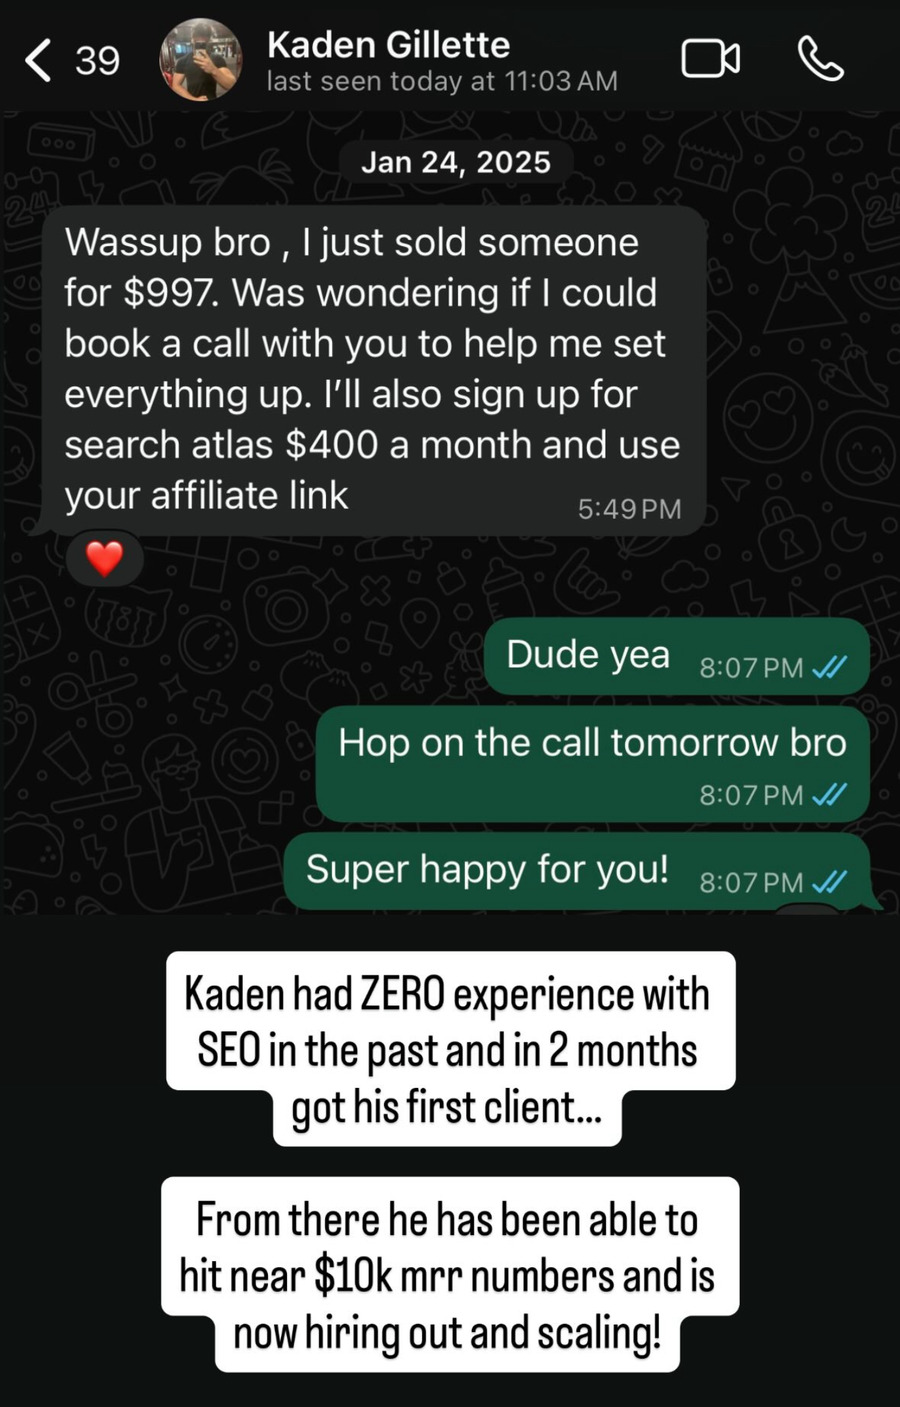
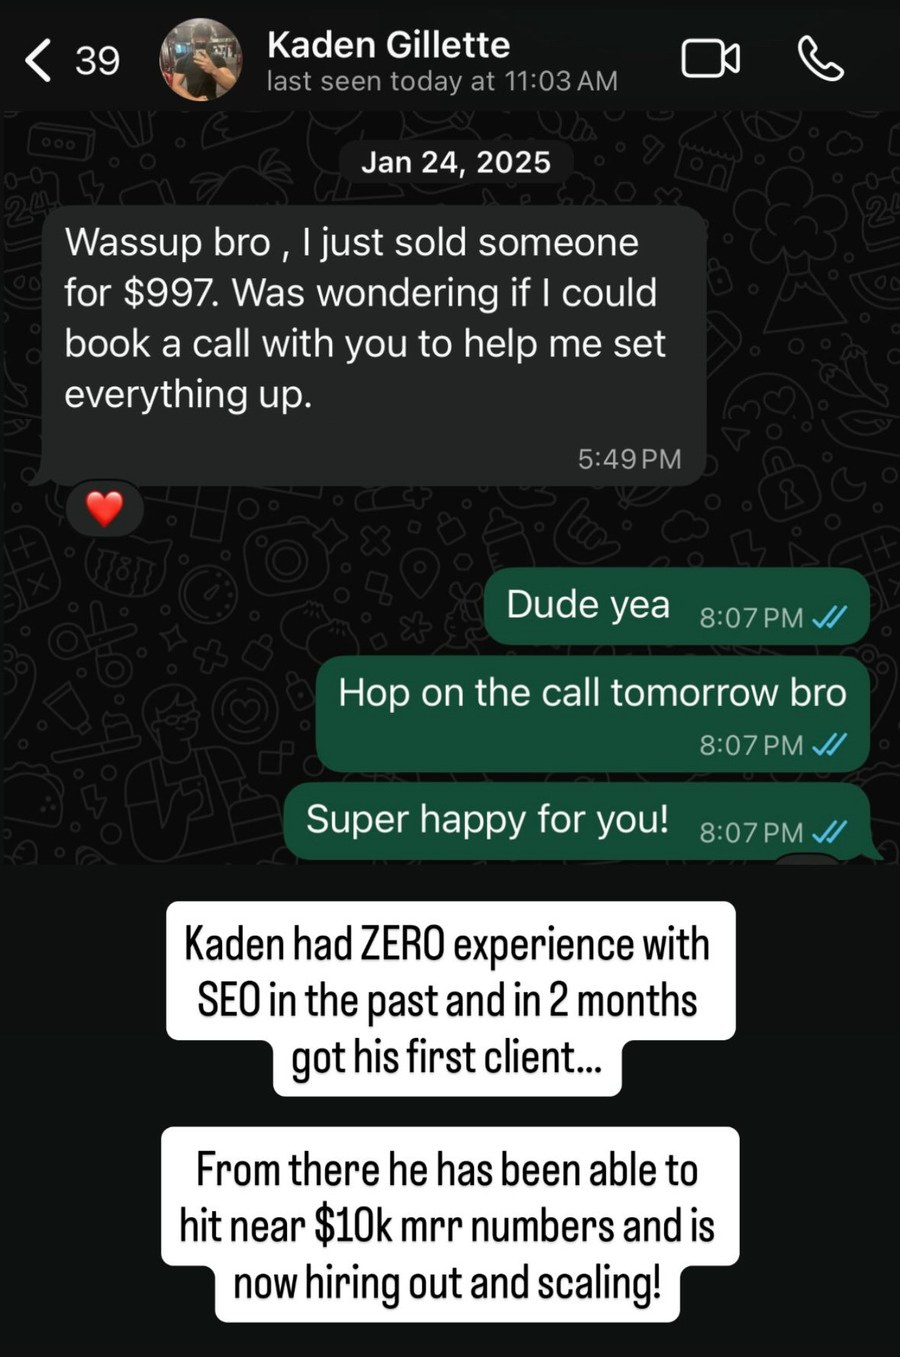
Trim the Kaden testimonial screenshot
Remove the affiliate-link sentence from the image and match the displayed height.

diff --git a/index.html b/index.html
@@ -142,7 +142,7 @@
       <figure class="res-kaden">
         <picture>
           <source srcset="assets/results/kaden.webp" type="image/webp">
-          <img class="zoomable" src="assets/results/kaden.jpg" alt="Kaden – client result" width="900" height="1407" loading="lazy">
+          <img class="zoomable" src="assets/results/kaden.jpg" alt="Kaden – client result" width="900" height="1357" loading="lazy">
         </picture>
       </figure>
       <figure class="res-adelina">

diff --git a/main.html b/main.html
@@ -68,7 +68,7 @@
       <figure class="res-kaden">
         <picture>
           <source srcset="assets/results/kaden.webp" type="image/webp">
-          <img class="zoomable" src="assets/results/kaden.jpg" alt="Kaden – client result" width="900" height="1407" loading="lazy">
+          <img class="zoomable" src="assets/results/kaden.jpg" alt="Kaden – client result" width="900" height="1357" loading="lazy">
         </picture>
       </figure>
       <figure class="res-adelina">
